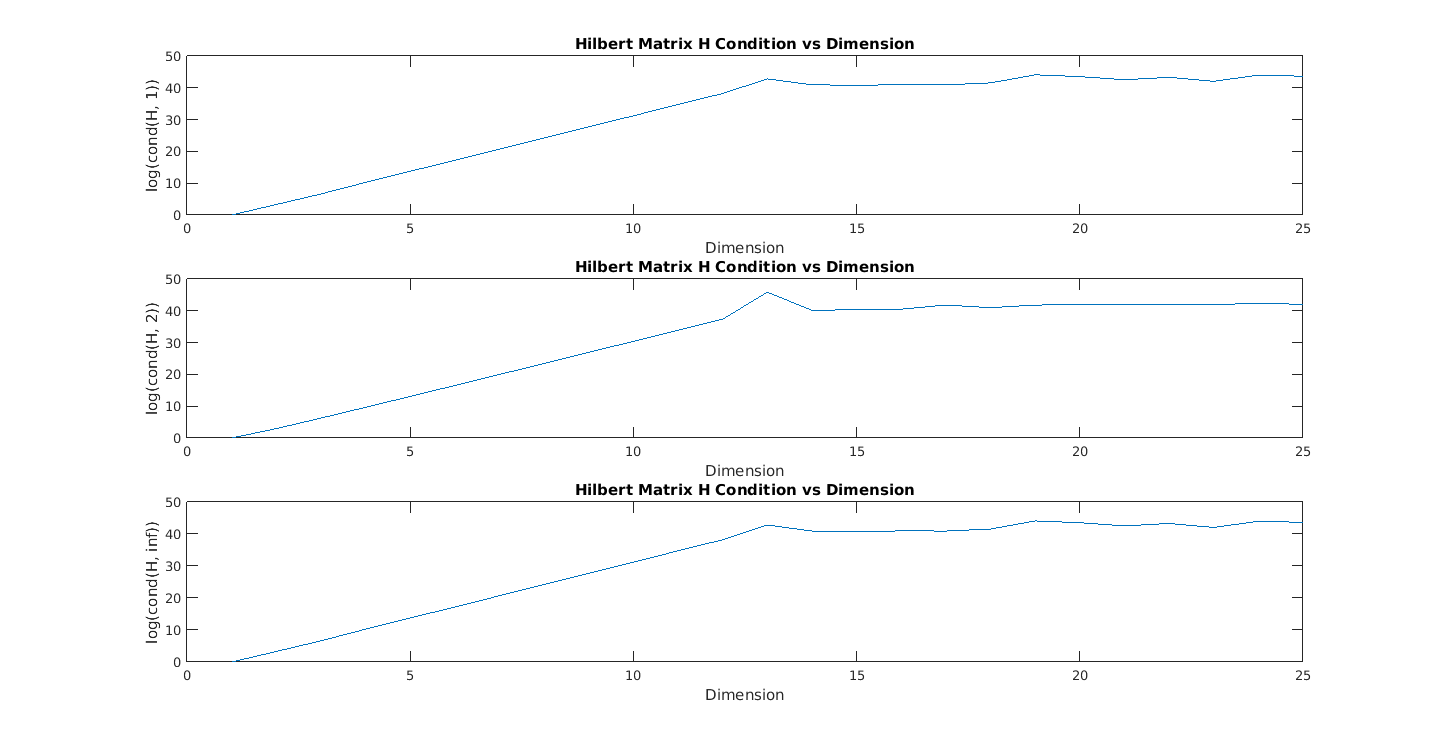
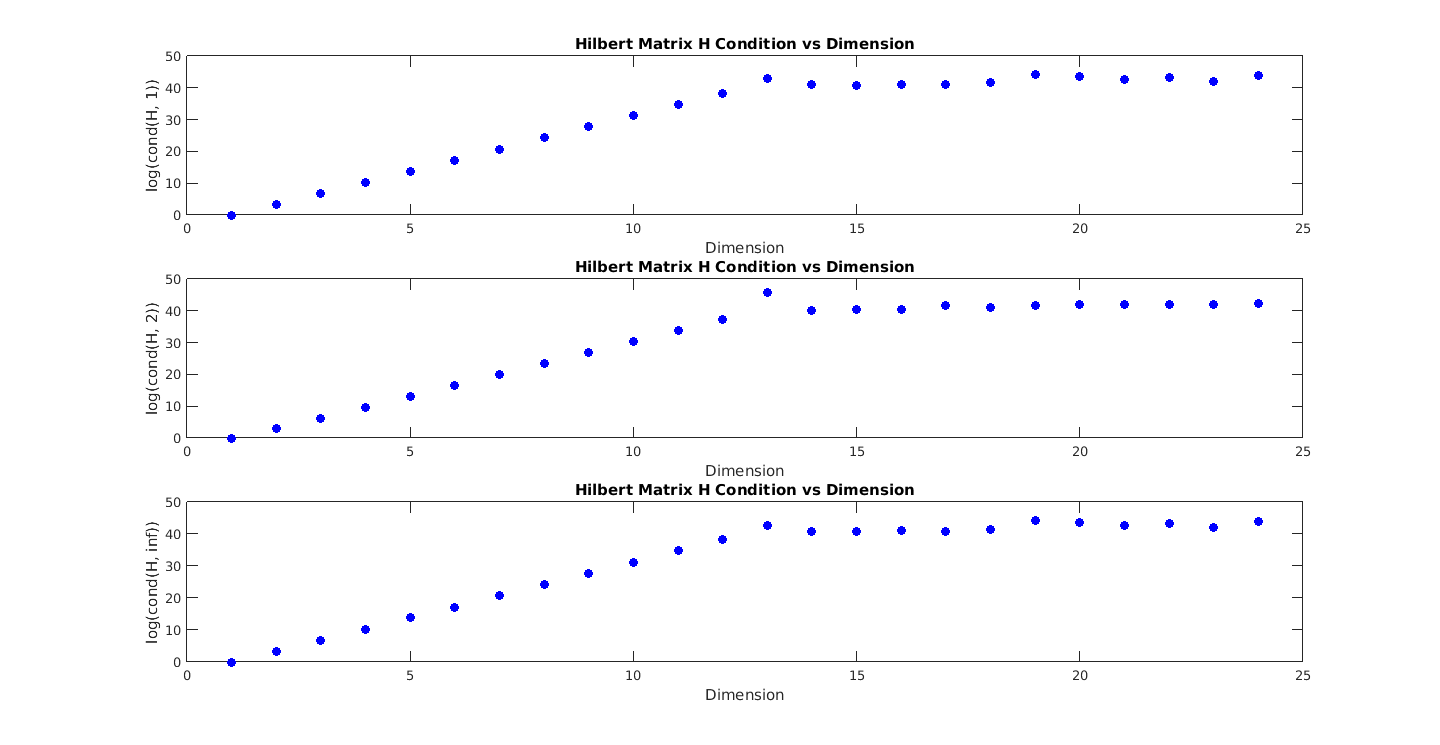
Made style changes to hilber conditioning graph

diff --git a/MATH635/homework/homework_6/hilbert_conditioning_graph.m b/MATH635/homework/homework_6/hilbert_conditioning_graph.m
@@ -18,15 +18,16 @@ for p = 1:n_plots
     if p > 2
         p_cond = @(n) log_hil_cond(n, inf);
         y_axis = 'log(cond(H, inf))';
+        
     else
         p_cond = @(n) log_hil_cond(n, p);
         y_axis = sprintf('log(cond(H, %d))', p);
     end
     
-    X = 1:25;
+    X = 1:24;
     Y = arrayfun(p_cond, X);
     
-    plot(X, Y);
+    h = plot(X, Y, 'ob','MarkerFaceColor','b');
     
     title(fig_title);
     ylabel(y_axis);
